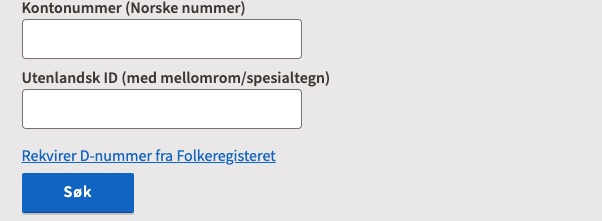
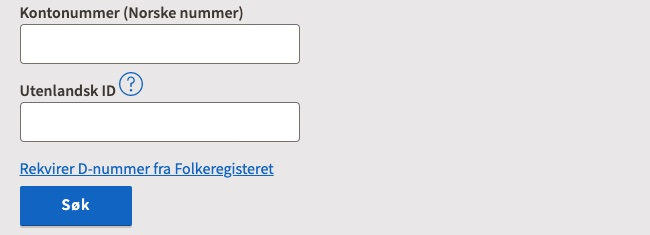
[KAIZEN-0] Lagt til hjelpetekst for søk på utenlandsk ID

Changed region(s): [[0.0299, 0.0, 0.5681, 0.6244], [0.0299, 0.6787, 0.4784, 0.9774], [0.0897, 0.8416, 0.1495, 0.8959]]

diff --git a/src/app/personsok/PersonsokSkjema.tsx b/src/app/personsok/PersonsokSkjema.tsx
@@ -19,6 +19,9 @@ import { erTall } from '../../utils/string-utils';
 import { validerKontonummer } from './kontonummer/kontonummerUtils';
 import moment from 'moment';
 import { feilmelding } from '../personside/infotabs/meldinger/traadvisning/verktoylinje/oppgave/validering';
+import { useRef } from 'react';
+import { guid } from 'nav-frontend-js-utils';
+import Hjelpetekst from 'nav-frontend-hjelpetekst';
 
 interface Props {
     setResponse: (response: FetchResponse<PersonsokResponse[]>) => void;
@@ -167,6 +170,7 @@ const initialValues: PersonSokFormState = {
 function PersonsokSkjema(props: Props) {
     const validator = useFormstate<PersonSokFormState>(validatorPersonsok);
     const state = validator(initialValues);
+    const hjelpetekstID = useRef(guid());
 
     function submitHandler<S>(values: Values<PersonSokFormState>): Promise<any> {
         props.setPosting(true);
@@ -192,6 +196,11 @@ function PersonsokSkjema(props: Props) {
         fodselsdatoFra: state.fields.fodselsdatoFra.input.value,
         kjonn: state.fields.kjonn.input.value
     };
+
+    const utenlandskIDTittel = [
+        'Utenlandsk ID ',
+        <Hjelpetekst id={hjelpetekstID.current}>Husk å inkludere alle tegn. Eksempel: 010101-12345</Hjelpetekst>
+    ];
 
     return (
         <form
@@ -247,7 +256,7 @@ function PersonsokSkjema(props: Props) {
                         />
                         <Input
                             bredde={'L'}
-                            label={'Utenlandsk ID (med mellomrom/spesialtegn)'}
+                            label={utenlandskIDTittel}
                             {...state.fields.utenlandskID.input}
                             feil={feilmelding(state.fields.utenlandskID)}
                         />
